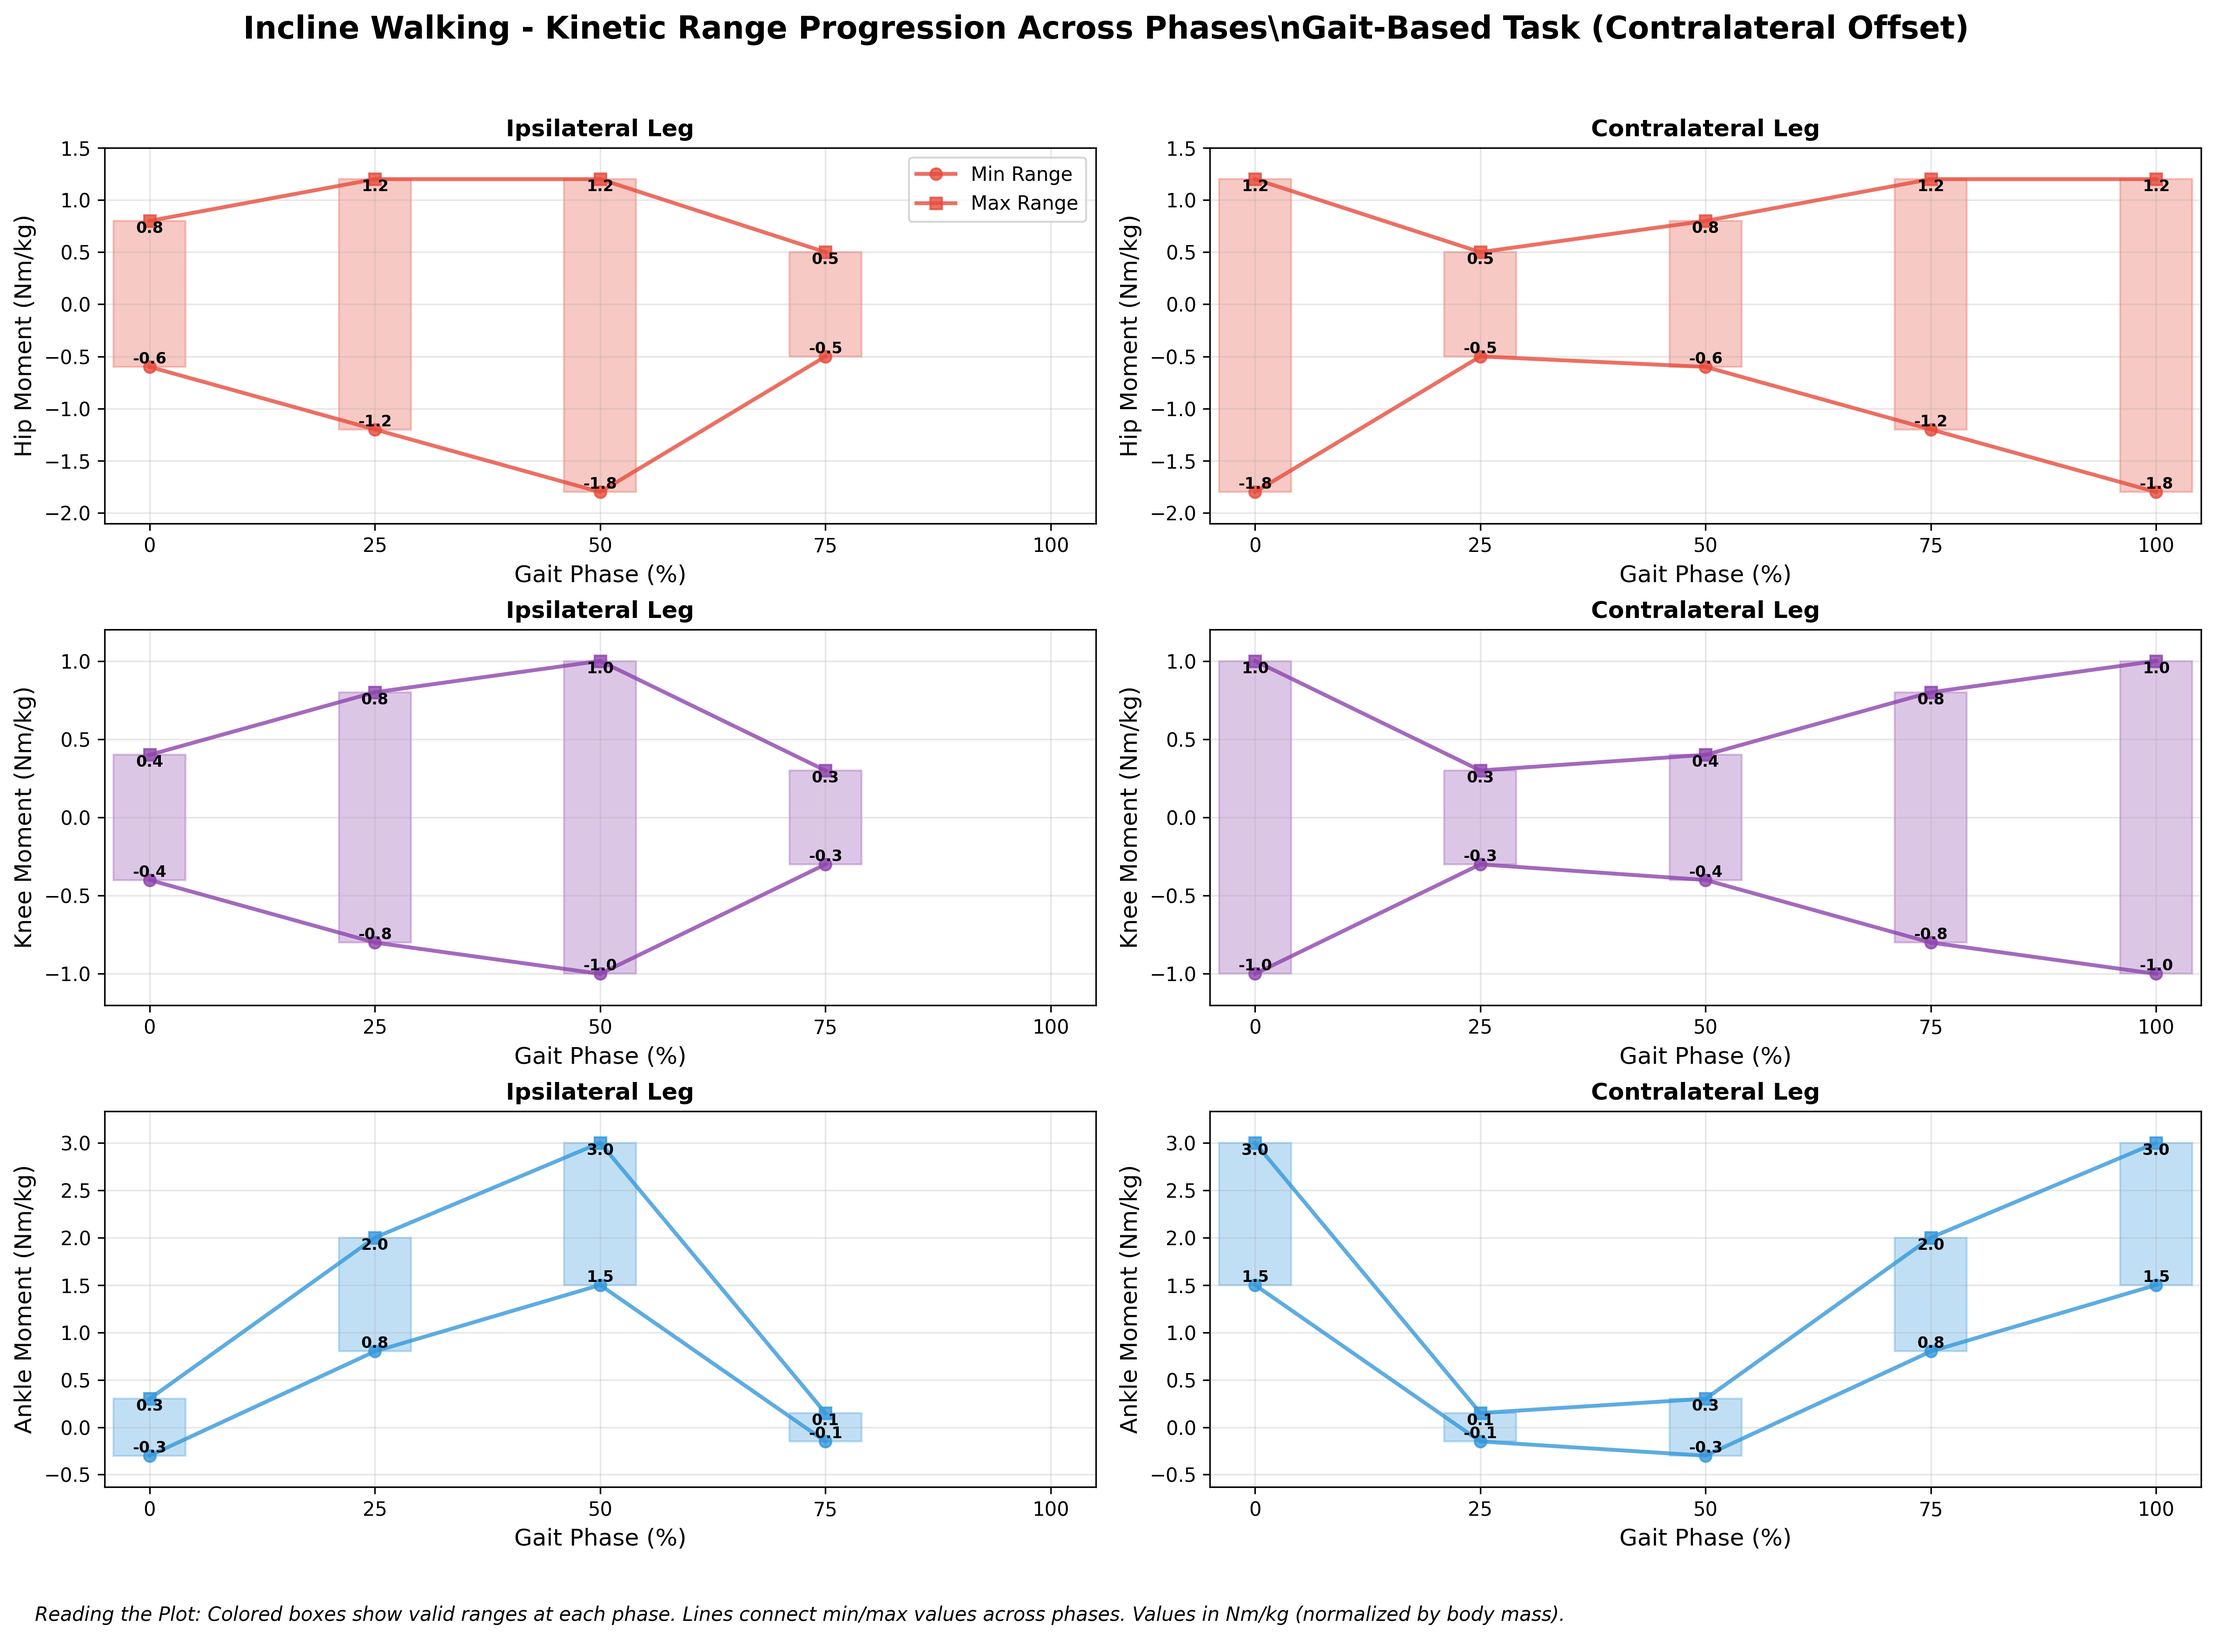
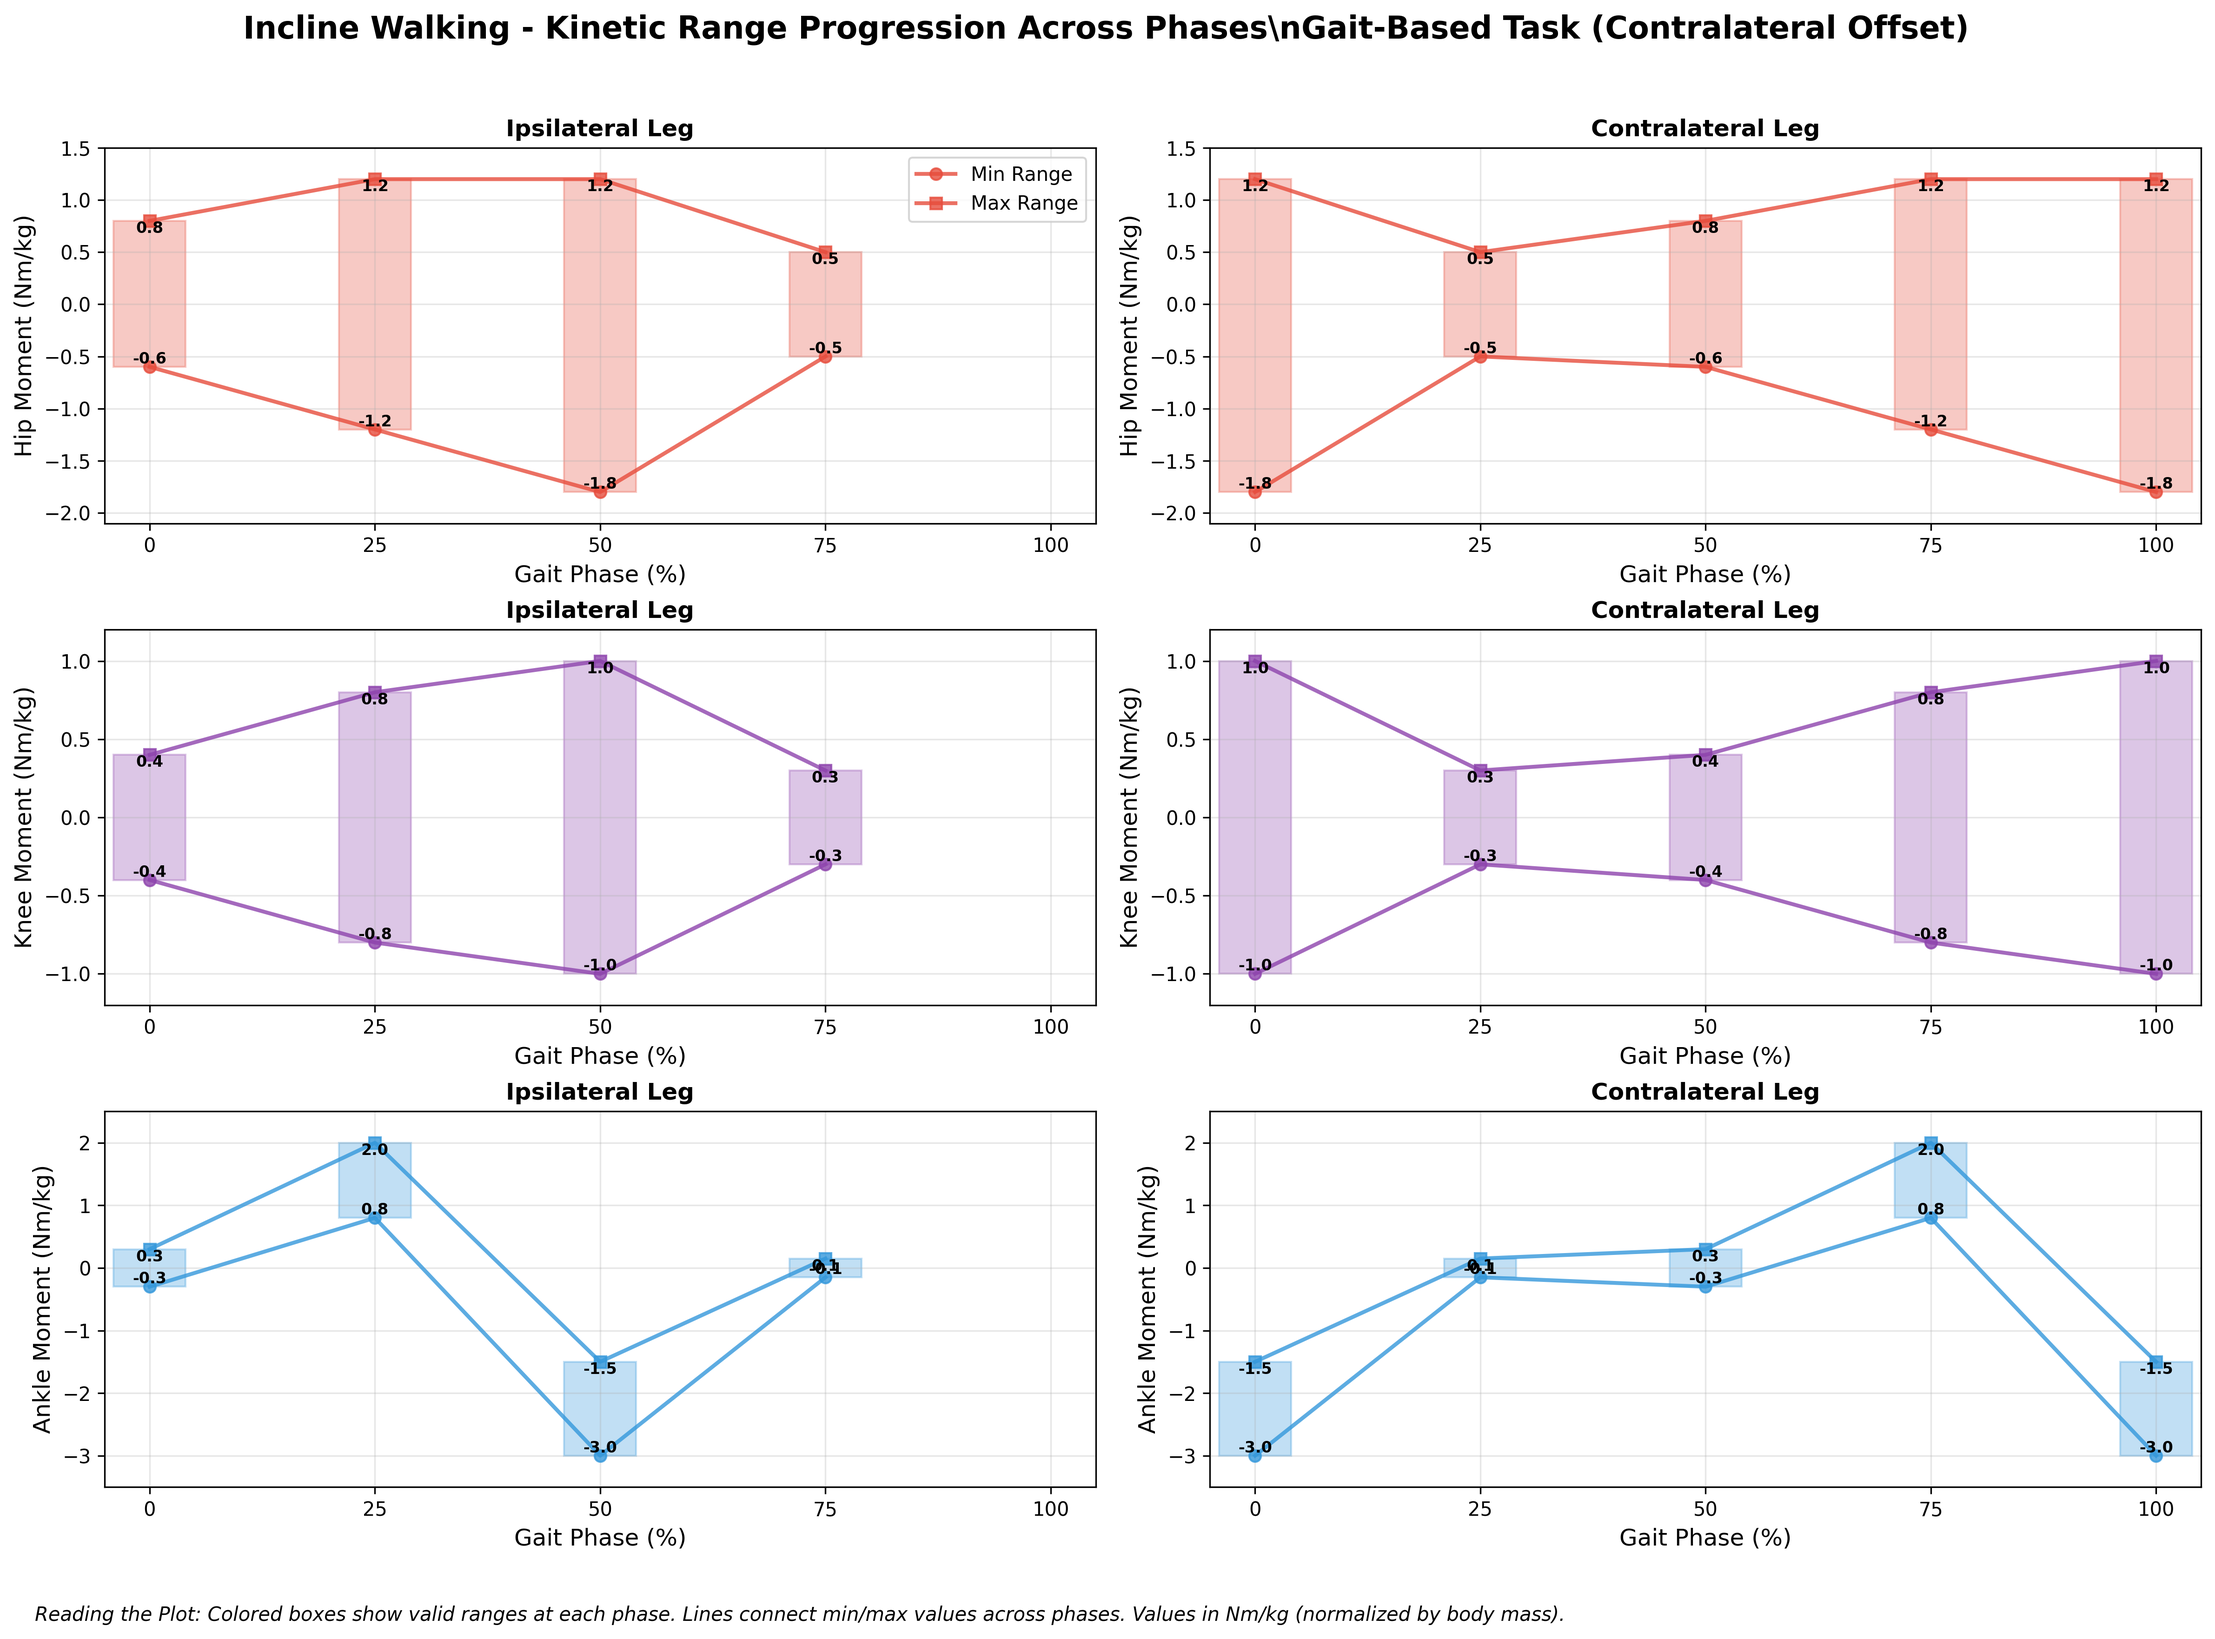
Fix kinetic validation sign conventions to align with OpenSim standards
- Correct ankle plantarflexor moments to negative values at toe-off (-3.7 Nm/kg)
- Update GRF and moment sign definitions to match sign_conventions.md
- Add comprehensive OpenSim coordinate system documentation
- Regenerate kinetic phase progression plots with corrected signs
- Ensure consistency: positive dorsiflexion, negative plantarflexion
- Cross-reference with established OpenSim right-hand rule conventions

Critical biomechanical accuracy improvement for validation system.

🤖 Generated with [Claude Code](https://claude.ai/code)

diff --git a/docs/standard_spec/validation_expectations_kinetic.md b/docs/standard_spec/validation_expectations_kinetic.md
@@ -63,17 +63,54 @@ This document provides biomechanically verified kinetic validation ranges (force
 ## Kinetic Variable Categories
 
 ### Ground Reaction Forces (GRF) - Normalized by Body Mass
+Following the **OpenSim coordinate system** as defined in [sign_conventions.md](sign_conventions.md):
+
 - **vertical_grf_N_kg**: Vertical ground reaction force per body weight (N/kg)
+  - **Positive**: Upward force (along global Y-axis)
+  - **Zero reference**: No vertical force
+  - **Typical values**: 8-15 N/kg walking, 20-28 N/kg running
+
 - **ap_grf_N_kg**: Anterior-posterior ground reaction force per body weight (N/kg)
+  - **Positive**: Forward/anterior force (along global X-axis) - propulsive
+  - **Negative**: Backward/posterior force - braking/decelerative
+  - **Zero reference**: No anterior-posterior force
+  - **Typical values**: -3 to +3 N/kg walking, -8 to +12 N/kg running
+
 - **ml_grf_N_kg**: Medial-lateral ground reaction force per body weight (N/kg)
+  - **Positive**: Rightward/lateral force (along global Z-axis)
+  - **Negative**: Leftward/medial force
+  - **Zero reference**: No medial-lateral force
+  - **Typical values**: ±1 N/kg walking, ±2.5 N/kg running
 
 ### Joint Moments - Normalized by Body Mass
+Following the **OpenSim right-hand rule** as defined in [sign_conventions.md](sign_conventions.md):
+
 - **hip_moment_ipsi_Nm_kg**: Hip flexion/extension moment per body mass (Nm/kg)
+  - **Positive**: Hip flexion moment (thigh forward rotation)
+  - **Negative**: Hip extension moment (thigh backward rotation)
+  - **Zero reference**: No hip moment
+  - **Anatomical meaning**: Positive values assist hip flexor muscles, negative values assist hip extensor muscles
+
 - **hip_moment_contra_Nm_kg**: Hip flexion/extension moment per body mass (Nm/kg)
+  - Same sign convention as ipsilateral hip moment
+
 - **knee_moment_ipsi_Nm_kg**: Knee flexion/extension moment per body mass (Nm/kg)
+  - **Positive**: Knee flexion moment (promotes knee bending)
+  - **Negative**: Knee extension moment (promotes knee straightening)
+  - **Zero reference**: No knee moment
+  - **Anatomical meaning**: Positive values assist knee flexor muscles, negative values assist knee extensor muscles
+
 - **knee_moment_contra_Nm_kg**: Knee flexion/extension moment per body mass (Nm/kg)
+  - Same sign convention as ipsilateral knee moment
+
 - **ankle_moment_ipsi_Nm_kg**: Ankle dorsiflexion/plantarflexion moment per body mass (Nm/kg)
+  - **Positive**: Ankle dorsiflexion moment (toes up rotation)
+  - **Negative**: Ankle plantarflexion moment (toes down rotation)
+  - **Zero reference**: No ankle moment
+  - **Anatomical meaning**: Positive values assist dorsiflexor muscles (tibialis anterior), negative values assist plantarflexor muscles (gastrocnemius/soleus)
+
 - **ankle_moment_contra_Nm_kg**: Ankle dorsiflexion/plantarflexion moment per body mass (Nm/kg)
+  - Same sign convention as ipsilateral ankle moment
 
 ### Power Variables (Optional) - Normalized by Body Mass
 - **hip_power_ipsi_W_kg**: Hip joint power per body mass (W/kg)
@@ -129,7 +166,7 @@ This document provides biomechanically verified kinetic validation ranges (force
 | ml_grf_N_kg | -1.0 | 1.0 | N/kg | Weight transfer forces - **Research-based** |
 | hip_moment_ipsi_Nm_kg | -1.0 | 1.0 | Nm/kg | Hip extension for propulsion - **Literature estimate** |
 | knee_moment_ipsi_Nm_kg | -1.0 | 1.0 | Nm/kg | Knee moment for push-off - **Literature estimate** |
-| ankle_moment_ipsi_Nm_kg | 1.5 | 3.7 | Nm/kg | Peak plantarflexor moment (~3.7) - **Literature-based** |
+| ankle_moment_ipsi_Nm_kg | -3.7 | -1.5 | Nm/kg | Peak plantarflexor moment (~-3.7) - **Literature-based** |
 
 #### Phase 75% (Mid-Swing)
 | Variable | Min_Value | Max_Value | Units | Notes |
@@ -183,7 +220,7 @@ This document provides biomechanically verified kinetic validation ranges (force
 | ml_grf_N_kg | -1.5 | 1.5 | N/kg | Weight transfer - **NEEDS RESEARCH** |
 | hip_moment_ipsi_Nm_kg | -1.8 | 1.2 | Nm/kg | Enhanced hip extension - **NEEDS RESEARCH** |
 | knee_moment_ipsi_Nm_kg | -1.0 | 1.0 | Nm/kg | Knee moment for propulsion - **NEEDS RESEARCH** |
-| ankle_moment_ipsi_Nm_kg | 1.5 | 3.0 | Nm/kg | Enhanced plantarflexor moment - **NEEDS RESEARCH** |
+| ankle_moment_ipsi_Nm_kg | -3.0 | -1.5 | Nm/kg | Enhanced plantarflexor moment - **NEEDS RESEARCH** |
 
 #### Phase 75% (Mid-Swing)
 | Variable | Min_Value | Max_Value | Units | Notes |
@@ -237,7 +274,7 @@ This document provides biomechanically verified kinetic validation ranges (force
 | ml_grf_N_kg | -2.5 | 2.5 | N/kg | Dynamic lateral forces - **Research-based** |
 | hip_moment_ipsi_Nm_kg | -2.5 | 2.0 | Nm/kg | Hip extension for propulsion - **Literature estimate** |
 | knee_moment_ipsi_Nm_kg | -2.0 | 2.0 | Nm/kg | Knee moment for push-off - **Literature estimate** |
-| ankle_moment_ipsi_Nm_kg | 3.0 | 6.0 | Nm/kg | Peak plantarflexor moment (higher in running) - **Literature estimate** |
+| ankle_moment_ipsi_Nm_kg | -6.0 | -3.0 | Nm/kg | Peak plantarflexor moment (higher in running) - **Literature estimate** |
 
 #### Phase 75% (Mid-Swing)
 | Variable | Min_Value | Max_Value | Units | Notes |
